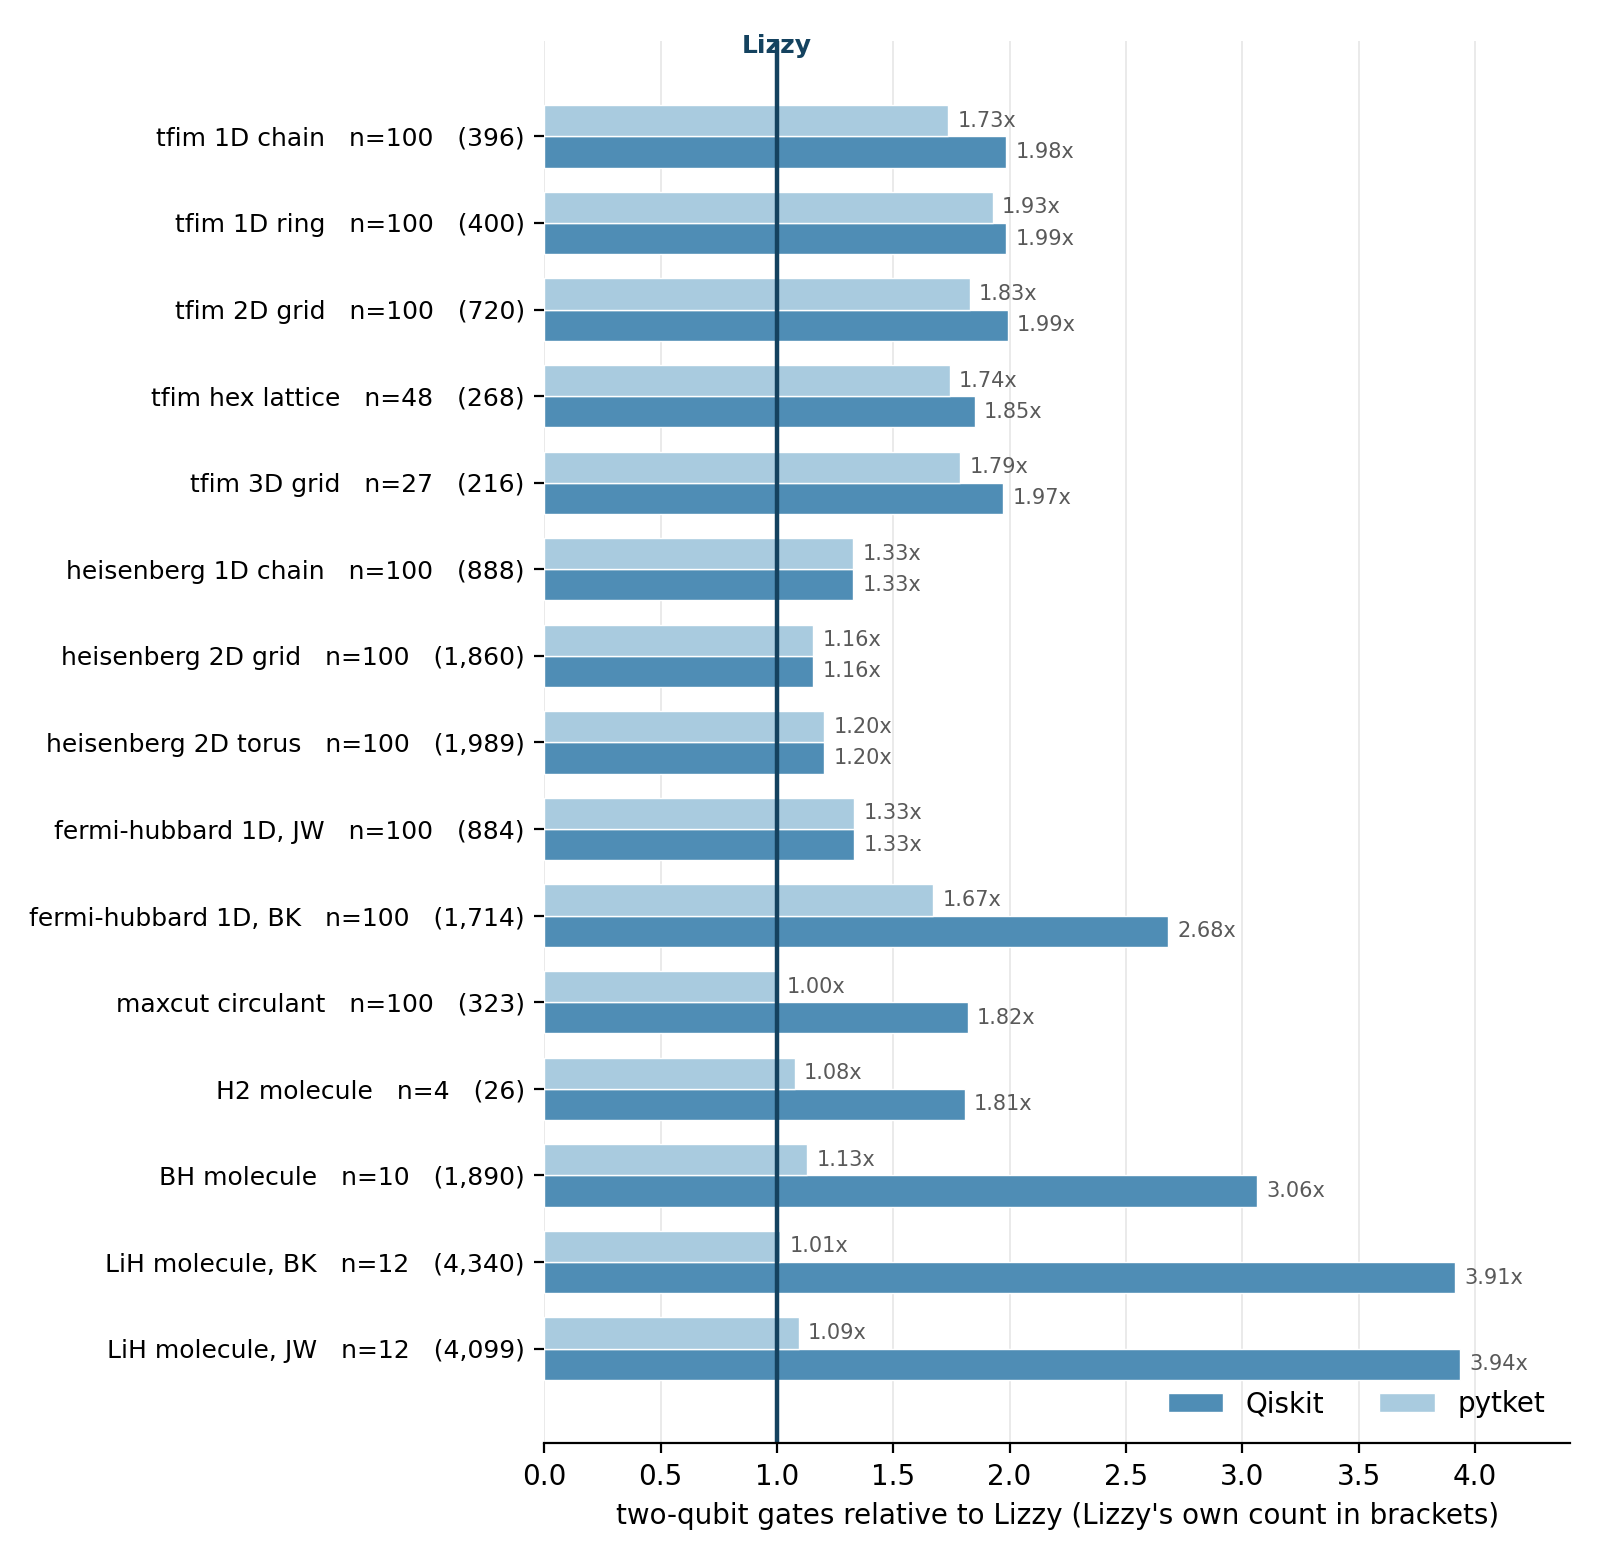
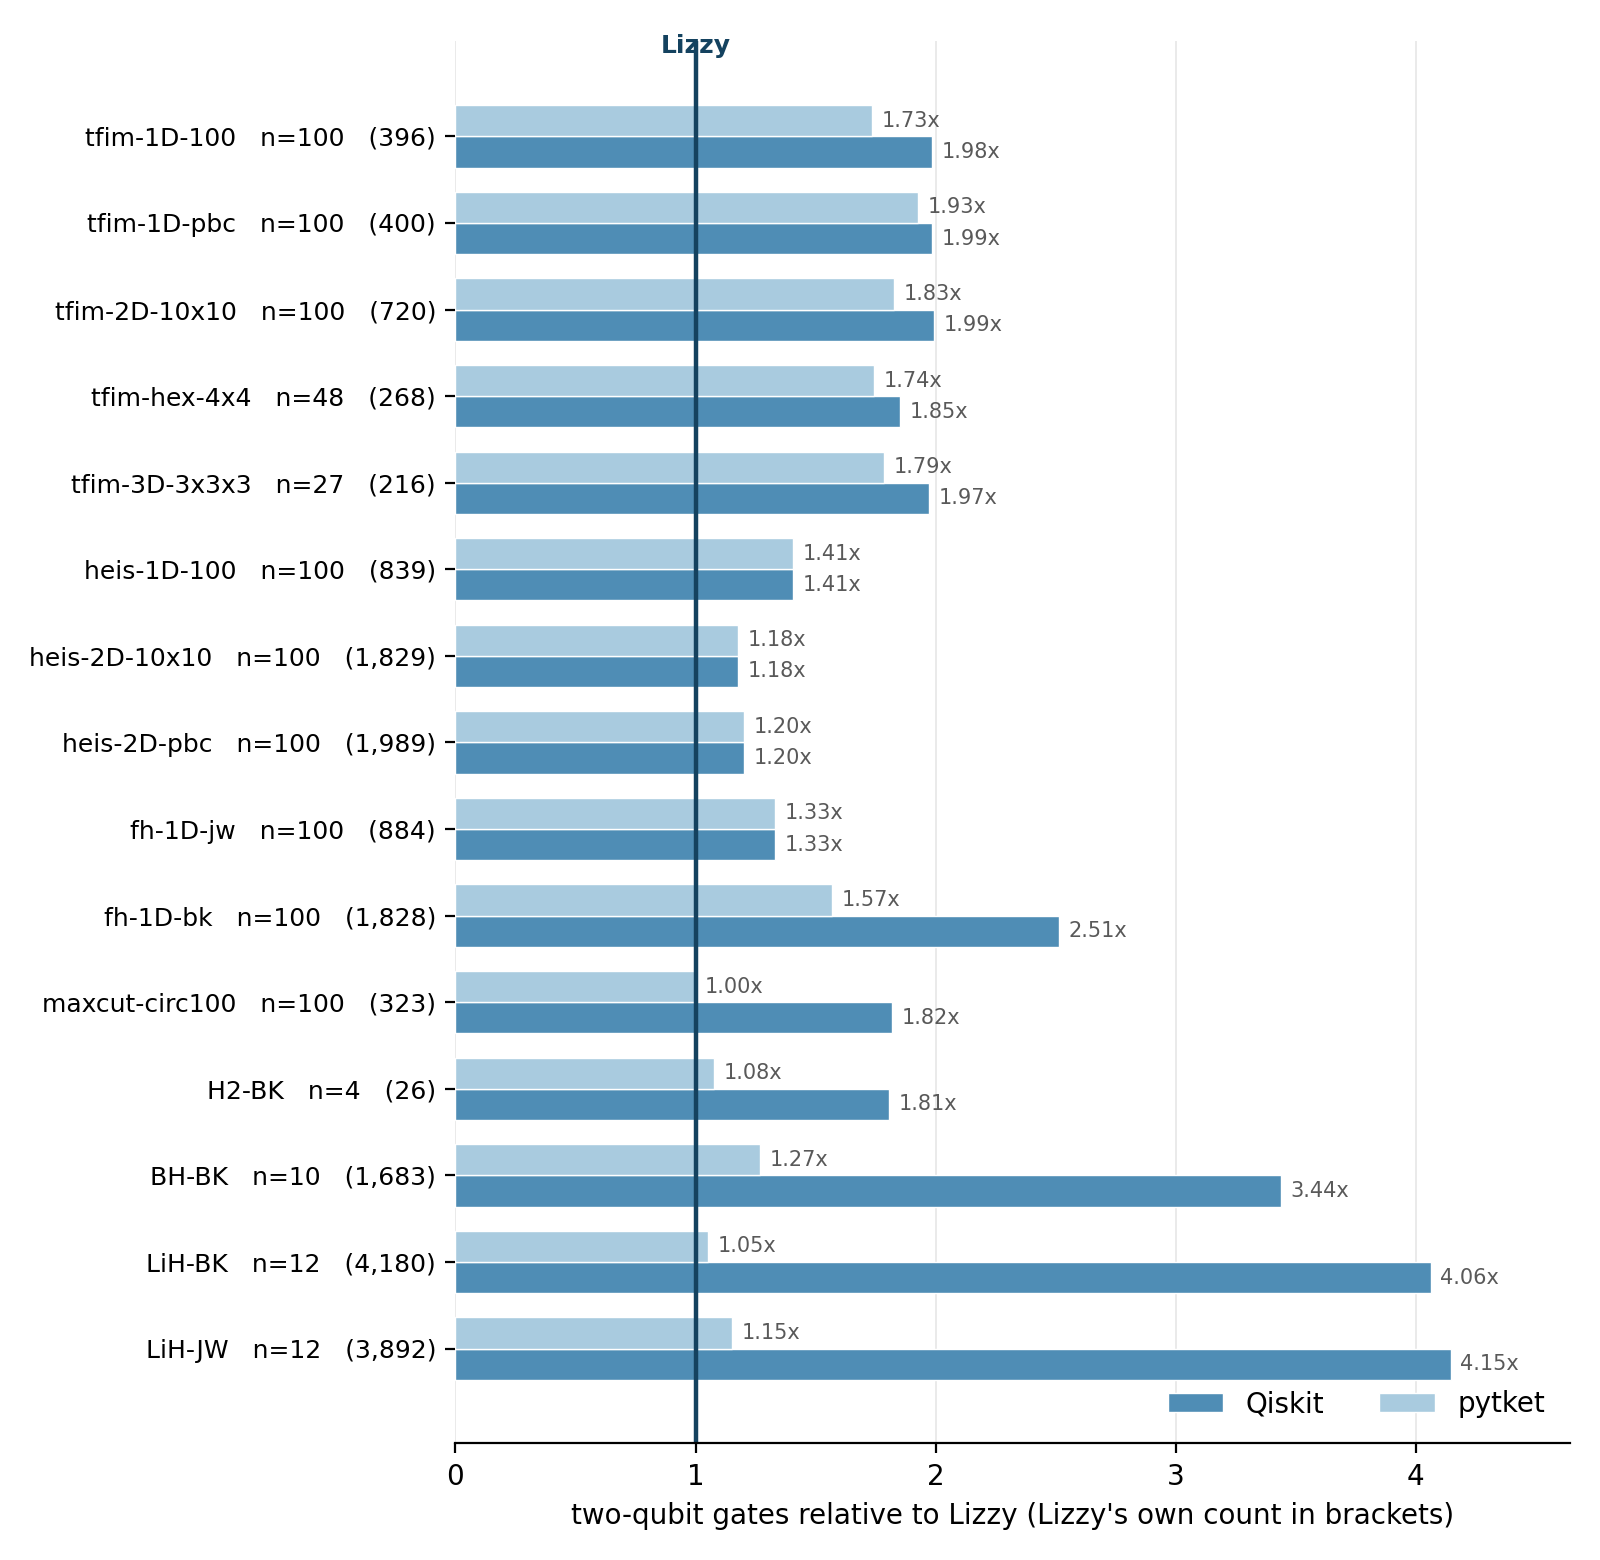
Refresh documentation and benchmark snapshot

diff --git a/lizzy/compare.py b/lizzy/compare.py
@@ -4,8 +4,8 @@
     Two contracts, because no single one is fair at every size. At eight qubits every
     compiler gets the fewest steps that reach the budget against a dense reference --
     oracle information nobody has at scale, so nobody is favoured by their sizing
-    method. At a hundred qubits nothing can be verified densely, so every compiler
-    gets the same fixed-depth task instead.
+    method. At larger widths nothing can be verified densely, so every compiler gets
+    the same fixed-depth HamLib task instead.
 
     Needs the ``compare`` extra (qiskit, pytket). Run with ``python -m lizzy.compare``.
 """
@@ -36,13 +36,13 @@ HAMLIB_CASES = [
     ("LiH-JW", "chemistry/electronic/standard/LiH.zip", "ham_JW-12"),
 ]
 
+# At t=4 the old capped search returned a step-64 S2 result that missed 1e-3.
 ORACLE_CASES = [
     ("tfim", 1.0),
     ("tfim", 8.0),
     ("heisenberg", 1.0),
     ("heisenberg", 8.0),
     ("heisenberg_all_to_all", 1.0),
-    ("heisenberg_all_to_all", 4.0),
 ]
 
 
@@ -139,15 +139,14 @@ def _check_tket_convention() -> None:
     assert infidelity(circuit_matrix(ours, 3), boxes.get_unitary()) < 1e-9
 
 
-def _bisect(check, high=64):
-    low = 1
-    while low < high:
-        middle = (low + high) // 2
-        if check(middle):
-            high = middle
-        else:
-            low = middle + 1
-    return low
+def _first_passing(check, high=64):
+    """Return the first passing integer step, without assuming monotone error."""
+    if high < 1:
+        raise ValueError("search cap must be at least one step")
+    for steps in range(1, high + 1):
+        if check(steps):
+            return steps
+    raise ValueError(f"target not reached within the {high}-step search cap")
 
 
 def oracle_table(error: float = 1e-3) -> None:
@@ -164,7 +163,7 @@ def oracle_table(error: float = 1e-3) -> None:
             built = synthesize(h, time=time_, steps=steps)
             return infidelity(target, circuit_matrix(built.circuit, 8)) < error
 
-        ours = synthesize(h, time=time_, steps=_bisect(ours_ok))
+        ours = synthesize(h, time=time_, steps=_first_passing(ours_ok))
 
         def qiskit_ok(steps, h=h, time_=time_, target=target):
             from qiskit import QuantumCircuit, transpile
@@ -185,7 +184,7 @@ def oracle_table(error: float = 1e-3) -> None:
             ).data
             return infidelity(target, unitary) < error
 
-        steps = _bisect(qiskit_ok)
+        steps = _first_passing(qiskit_ok)
         row = (
             f"{name:22}{time_:>4.0f}{ours.two_qubit_gates:>9,}"
             f"{qiskit_best(h, 8, time_, steps):>9,}"
@@ -195,7 +194,7 @@ def oracle_table(error: float = 1e-3) -> None:
 
 
 def hamlib_table(steps: int = 2, time_: float = 1.0) -> list[dict]:
-    """Every compiler gets the same fixed-depth task on HamLib at 100 qubits."""
+    """Every compiler gets the same fixed-depth task on selected HamLib instances."""
     print(f"\nHamLib, fixed steps={steps}, t={time_}")
     print(f"{'instance':16}{'n':>5}{'terms':>7}{'lizzy':>9}{'qiskit':>9}{'tket':>9}  route")
     rows = []

diff --git a/tests/test_lizzy.py b/tests/test_lizzy.py
@@ -781,6 +781,18 @@ def test_cluster_formula_meets_the_budget_it_was_sized_for(name: str, n: int) ->
     assert infidelity(evolution(h, 1.0), circuit_matrix(circuit, n)) < 1e-3
 
 
+def test_oracle_search_handles_nonmonotone_error_and_rejects_an_unmet_cap() -> None:
+    """A capped search returns the actual first pass and never a failing endpoint."""
+    from lizzy.compare import _first_passing
+
+    for threshold in (1, 2, 3, 17, 64):
+        result = _first_passing(lambda steps, threshold=threshold: steps >= threshold)
+        assert result == threshold
+    assert _first_passing(lambda steps: steps == 3 or steps >= 8, high=8) == 3
+    with pytest.raises(ValueError, match="target not reached within the 64-step"):
+        _first_passing(lambda _steps: False)
+
+
 def test_cluster_constant_is_cached() -> None:
     """The constant depends only on the clusters, so asking twice walks once.
 

diff --git a/README.md b/README.md
@@ -1,8 +1,12 @@
 # Lizzy
 
-Unitary synthesis for Pauli Hamiltonians, routed by what the dynamical Lie algebra
-actually is. Classify the DLA with [PauLie](https://github.com/QPauLie/PauLie), price
-every branch the classification allows, and let the cheapest circuit win.
+Structure-aware unitary synthesis for Pauli Hamiltonians, plus an explicit molecular
+path backed by OpenFermion and ffsim. Lizzy uses the dynamical Lie algebra (DLA) to
+recognize exact `so(m)` and hybrid free-fermion opportunities, then prices those
+routes alongside product-formula and emission alternatives. For generic chemistry,
+the DLA is a filter and special-case detector, not a cost predictor. Representation-
+dependent Pauli structure guides emission, while fermionic structure is retained for
+explicit molecular routes and future accuracy-matched selection.
 
 Named in honor of [Elizabeth Meckes](https://en.wikipedia.org/wiki/Elizabeth_Meckes)
 (1980–2020), mathematician of the classical compact groups — the exact branch of this
@@ -17,16 +21,17 @@ result.routes           # ['exact'] — fixed depth, whatever the time
 result.emission_backend # builtin, native-frame, pytket-direct, or pytket-greedy
 result.two_qubit_gates  # count of that concrete emitted circuit
 result.logical_two_qubit_gates  # builtin count of the verifiable Pauli sequence
-result.error_guaranteed # False for fixed-step, calibrated, or sampled formulas
-result.routing_estimated # True if an oversized loser used the 1/2/4 cost model
+result.error_guaranteed # True here; fixed-step/calibrated/sampled formulas are False
+result.routing_estimated # True if any oversized candidate used the 1/2/4 cost model
 ```
 
 ## The route
 
 ```
 H, t, budget (or a fixed step count)
- ├─ classify the DLA (PauLie), split into commuting summands    [exact]
- └─ per summand, price every candidate and keep the cheapest:
+ ├─ split exactly commuting summands via the anticommutation graph
+ ├─ classify only manageable components/subsets with PauLie
+ └─ per summand, price every available candidate and keep the cheapest:
       exact      so(m) → one orthogonal matrix, reduced to adjacent Givens
                  rotations along the Majorana line         [depth flat in t]
       hybrid     free subalgebra compiled exactly inside each second-order
@@ -79,9 +84,11 @@ OpenFermion owns `FermionOperator` algebra and JW/BK encodings; ffsim owns doubl
 factorization, number/Z conversion, Givens decomposition, adjacent-frame merging and
 the DF-Trotter gate. Lizzy retains a validated tensor façade, the HamLib/layout bridge,
 Qiskit count/provenance metadata and optional policies around that upstream baseline.
-The default preserves ffsim's factor order. The old Givens-distance/2-opt portfolio is
-available only as `frame_ordering="experimental-givens"`, because it changes the
-finite-step approximant and has no accuracy certificate.
+The default preserves ffsim's factor order. Givens-distance/2-opt reordering is an
+explicit experiment under the canonical name
+`frame_ordering="experimental-givens"`, because it changes the finite-step
+approximant and has no accuracy certificate. The former name `"portfolio"` remains a
+deprecated alias.
 
 Ordinary full-rank noncommuting weight-one/two formulas stay on the builtin fast path.
 The native backend is tried for abelian spans and for the certified one-logical-qubit
@@ -142,9 +149,8 @@ steps at t=1), two-qubit gates after each compiler's best effort — Qiskit at
 `optimization_level=3` and the better of its default and Rustiq synthesis, pytket at
 the better of `GreedyPauliSimp` and `FullPeepholeOptimise`. Bars are each compiler's
 cost as a multiple of this one, with Lizzy's own gate count in brackets. Reproduce
-the numbers and redraw the figure with `python -m lizzy.compare`. The checked-in
-figure records the earlier two-emitter baseline; running the command regenerates it
-with the direct-box route, alternative colouring and actual emitted-circuit counts:
+the numbers and overwrite the checked-in figure with `python -m lizzy.compare`. The
+snapshot below was regenerated on 2026-09-04 with Qiskit 2.5.1 and pytket 2.18.1:
 
 ![Two-qubit gates relative to Lizzy on fifteen HamLib instances](docs/comparison.png)
 
@@ -203,9 +209,22 @@ so DF remains an explicit API rather than silently replacing the error-budgeted
 generic router.
 
 At matched accuracy — eight qubits, every compiler given the fewest steps that reach
-1e-3 against a dense reference — Lizzy wins all six model/time combinations measured,
-1.4× to 4.1×, and the margin grows with evolution time on fast-forwardable families:
-at t=8 the exact branch holds 143 gates against Trotter's 1 148.
+1e-3 against a dense reference — the current valid rows are:
+
+| model | t | Lizzy | Qiskit | pytket |
+| --- | ---: | ---: | ---: | ---: |
+| TFIM | 1 | 42 | 60 | 51 |
+| TFIM | 8 | 122 | 588 | 533 |
+| Heisenberg chain | 1 | 93 | 291 | 147 |
+| Heisenberg chain | 8 | 1,206 | 3,797 | 1,869 |
+| Heisenberg all-to-all | 1 | 2,892 | 5,420 | **2,469** |
+
+Lizzy wins the four chain rows, including 122 against the next-best 533 for TFIM at
+`t=8`, but it does not win the dense all-to-all case. The all-to-all `t=4` row is
+deliberately excluded: the previous capped search returned step 64 even though the S2
+comparator still missed 1e-3 there, so it never established a valid matched-accuracy
+count. The benchmark now scans every integer step through the cap — finite-step error
+need not be monotone — and rejects the row if none passes.
 
 **Not every compiler can be scored this way.** Checked against a dense reference on a
 duplicate-free Trotter step, only pytket, Qiskit's `PauliEvolutionGate` and Lizzy
@@ -219,7 +238,7 @@ t=8): it buys cheaper steps with more of them, because reordering costs Trotter
 accuracy. Paulihedral and Tetris are absent because their output could not be verified
 against a reference under any convention tried.
 
-The compiler remains about 4,700 lines of Python across sixteen modules. The algebra
+The compiler is about 5,800 lines of Python across eighteen package files. The algebra
 lives upstream in PauLie and kak-tools, while emission backends stay behind the same
 priced-candidate interface.
 
@@ -240,25 +259,38 @@ change (1 440 reported, 1 440 emitted at tfim 2D; 884 and 884 on Fermi-Hubbard u
 Jordan-Wigner, where the cap said 1 063).
 
 ```bash
-pytest                   # dense checks, offline
+pytest                   # dense/unit checks; HamLib archives download on first use
 python -m lizzy.bench    # per-instance route, cost, achieved error
 python -m lizzy.compare  # the tables above (needs the compare extra)
 ```
 
 ## Install
 
+Python 3.12 or newer is required. Until
+[kak-tools PR #1](https://github.com/QPauLie/kak-tools/pull/1) is released, install
+its tested revision before Lizzy (`kak_tools` is not published on PyPI):
+
 ```bash
-pip install -e .
-pip install -e '.[hamlib]'    # Pauli-form HamLib loading (h5py, openfermion)
-pip install -e '.[chemistry]' # molecular HamLib + ffsim double factorization
-pip install -e '.[compare]'   # benchmark against qiskit and pytket
-pip install -e '.[test]'
+python -m pip install \
+  "kak_tools @ git+https://github.com/QPauLie/kak-tools.git@216ee80646f1e1acd77a1be45dc19b604bf953af"
+python -m pip install -e .
+python -m pip install -e '.[hamlib]'    # Pauli-form HamLib loading
+python -m pip install -e '.[chemistry]' # molecular HamLib + OpenFermion/ffsim/Qiskit
+python -m pip install -e '.[compare]'   # Qiskit/pytket comparison
+python -m pip install -e '.[hamlib,chemistry,compare,test]' # full test environment
 ```
 
-The chemistry path exposes the upstream owners in its function names. Its default is
-ffsim's factor order and block-spin JW layout; requesting
-`qubit_order="interleaved"` adds the fermionic parity conjugation rather than
-pretending the conversion is a free wire relabeling:
+PauLie 0.2.3 contains the required merged
+[PR #232](https://github.com/QPauLie/PauLie/pull/232) and installs
+`pauliebits>=0.1.1` from PyPI transitively; no separate pauliebits installation is
+needed.
+
+The explicit circuit API `synthesize_molecular_ffsim` preserves ffsim's factor order
+and defaults to its block-spin JW layout (`qubit_order="alpha-then-beta"`). On that
+API, requesting `qubit_order="interleaved"` inserts the fermionic parity-conjugation
+network rather than treating the mode permutation as a free wire relabeling. The
+OpenFermion conversion helpers instead default to interleaved mode order, matching
+HamLib:
 
 ```python
 from lizzy.chemistry import synthesize_molecular_ffsim, to_pauli_openfermion
@@ -272,7 +304,7 @@ df.routing_mode                # "input"
 df.factor_order_preserved      # True
 df.two_body_tensor_max_abs_error  # diagnostic, not a unitary-error bound
 df.accuracy_certified          # False
-df.factorization_fingerprint   # identifies the exact upstream factor frames
+df.factorization_fingerprint   # identifies the upstream factor tensors/frames
 
 paulis = to_pauli_openfermion(
     molecule, "jw", qubit_order="alpha-then-beta"
@@ -284,18 +316,6 @@ trial = synthesize_molecular_ffsim(
     molecule, time=1.0, steps=1, frame_ordering="experimental-givens"
 )
 trial.routing_attempted        # True
-```
-
-Needs [kak-tools](https://github.com/QPauLie/kak-tools) with
-[PR #1](https://github.com/QPauLie/kak-tools/pull/1) and PauLie with
-[PR #232](https://github.com/QPauLie/PauLie/pull/232).
-
-PauLie also needs [pauliebits](https://github.com/QPauLie/pauliebits), which is not on
-PyPI. Its location lives in PauLie's `[tool.uv.sources]`, which `uv` reads and `pip`
-does not, so a pip environment installs it explicitly or the import fails:
-
-```bash
-pip install 'git+https://github.com/QPauLie/pauliebits.git@master'
 ```
 
 ## Outlook
@@ -323,13 +343,14 @@ predictive rather than novelty-by-reordering: can cheap structure features ident
 which established representation reaches a common accuracy target at the lowest
 actual cost?
 
-The first feature ablation will combine quantities already available here: Pauli
+The first feature ablation will combine the quantities already exposed here — Pauli
 weight/ladder cost, anticommutation degree distribution, GF(2) span and Gram ranks,
-extractable Z2 symmetries, commutator error constants, DF factor count and Coulomb
-density, and pairwise Givens-distance statistics. H2-4, LiH-8, BH-10 and LiH-12 will be
-compared in one alpha-then-beta convention across JW, BK and ffsim DF at steps 1--3.
-The label is the smallest actual CX count reaching the same seeded physical-sector
-infidelity threshold, not the lowest count at an arbitrarily equal step number.
+extractable Z2 symmetries, commutator error constants and DF factor count — with two
+features still to be surfaced from the chemistry internals: Coulomb density and
+pairwise Givens-distance statistics. H2-4, LiH-8, BH-10 and LiH-12 will be compared in
+one alpha-then-beta convention across JW, BK and ffsim DF at steps 1--3. The label is
+the smallest actual CX count reaching the same seeded physical-sector infidelity
+threshold, not the lowest count at an arbitrarily equal step number.
 
 **A reference representation derived from the classification.** `lizzy.frame` needs a
 target to move towards, and today that target is supplied. The classification already
